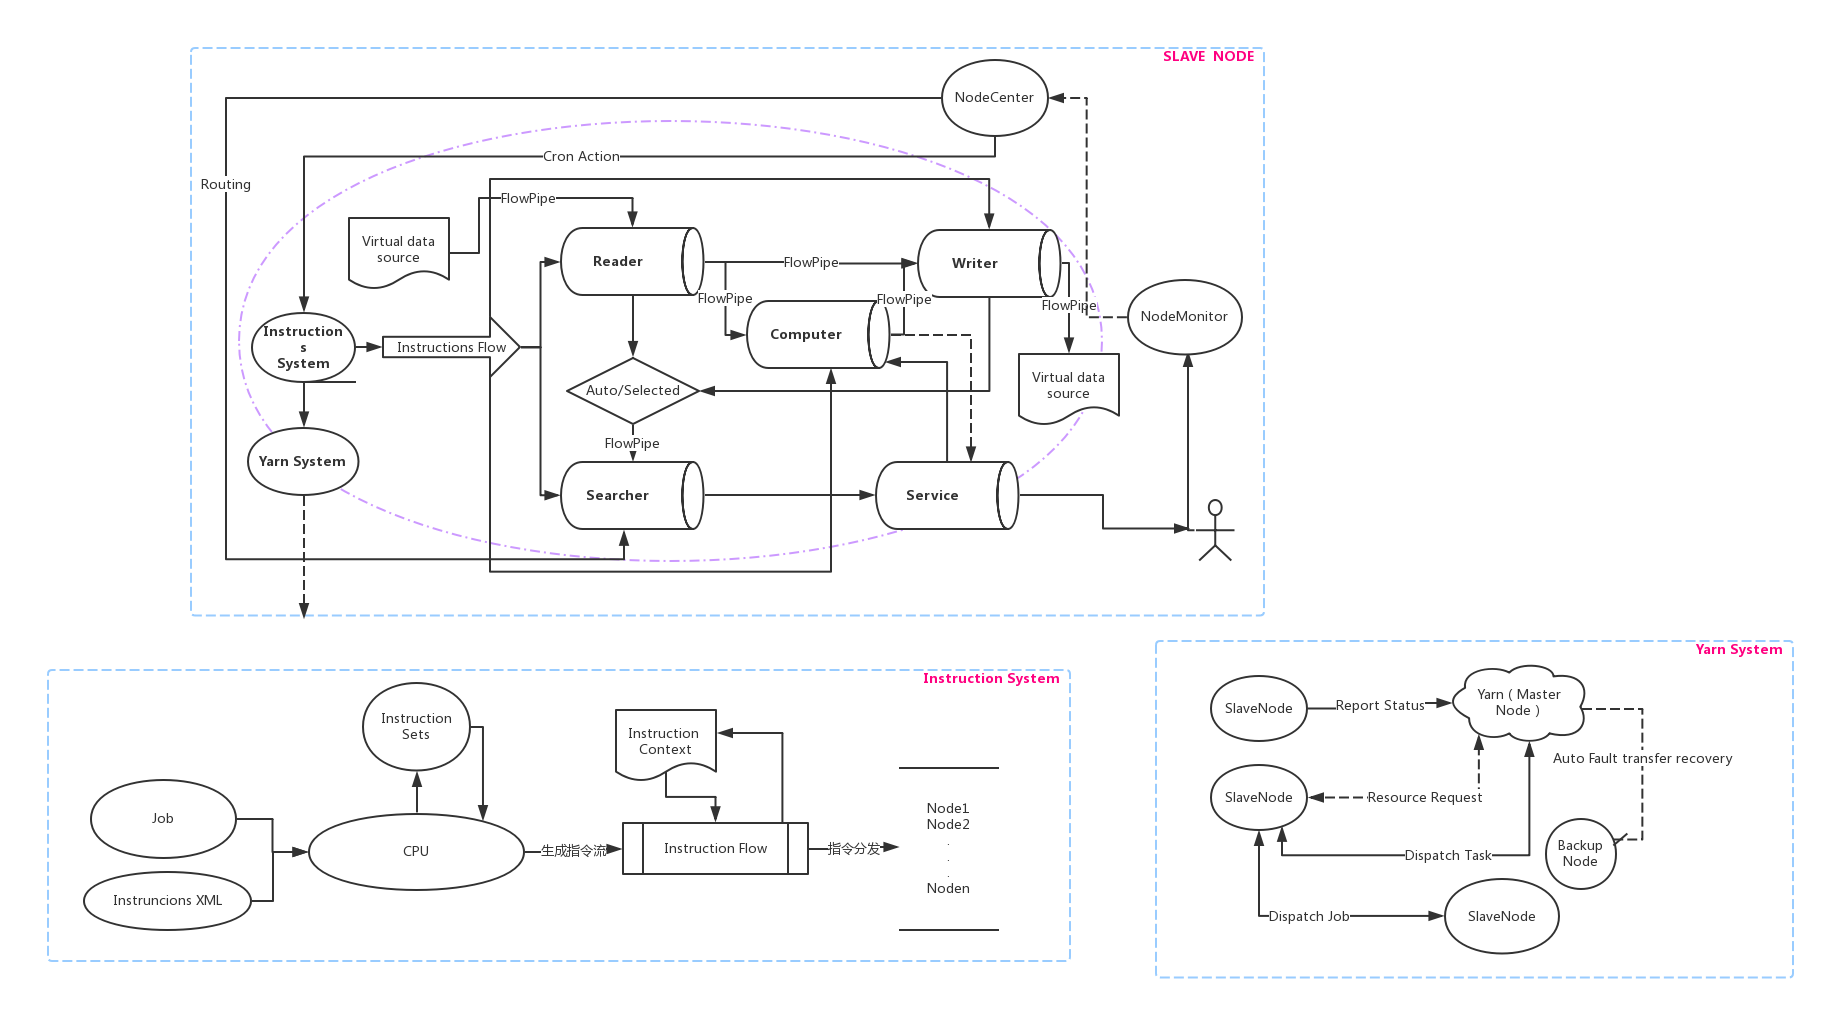
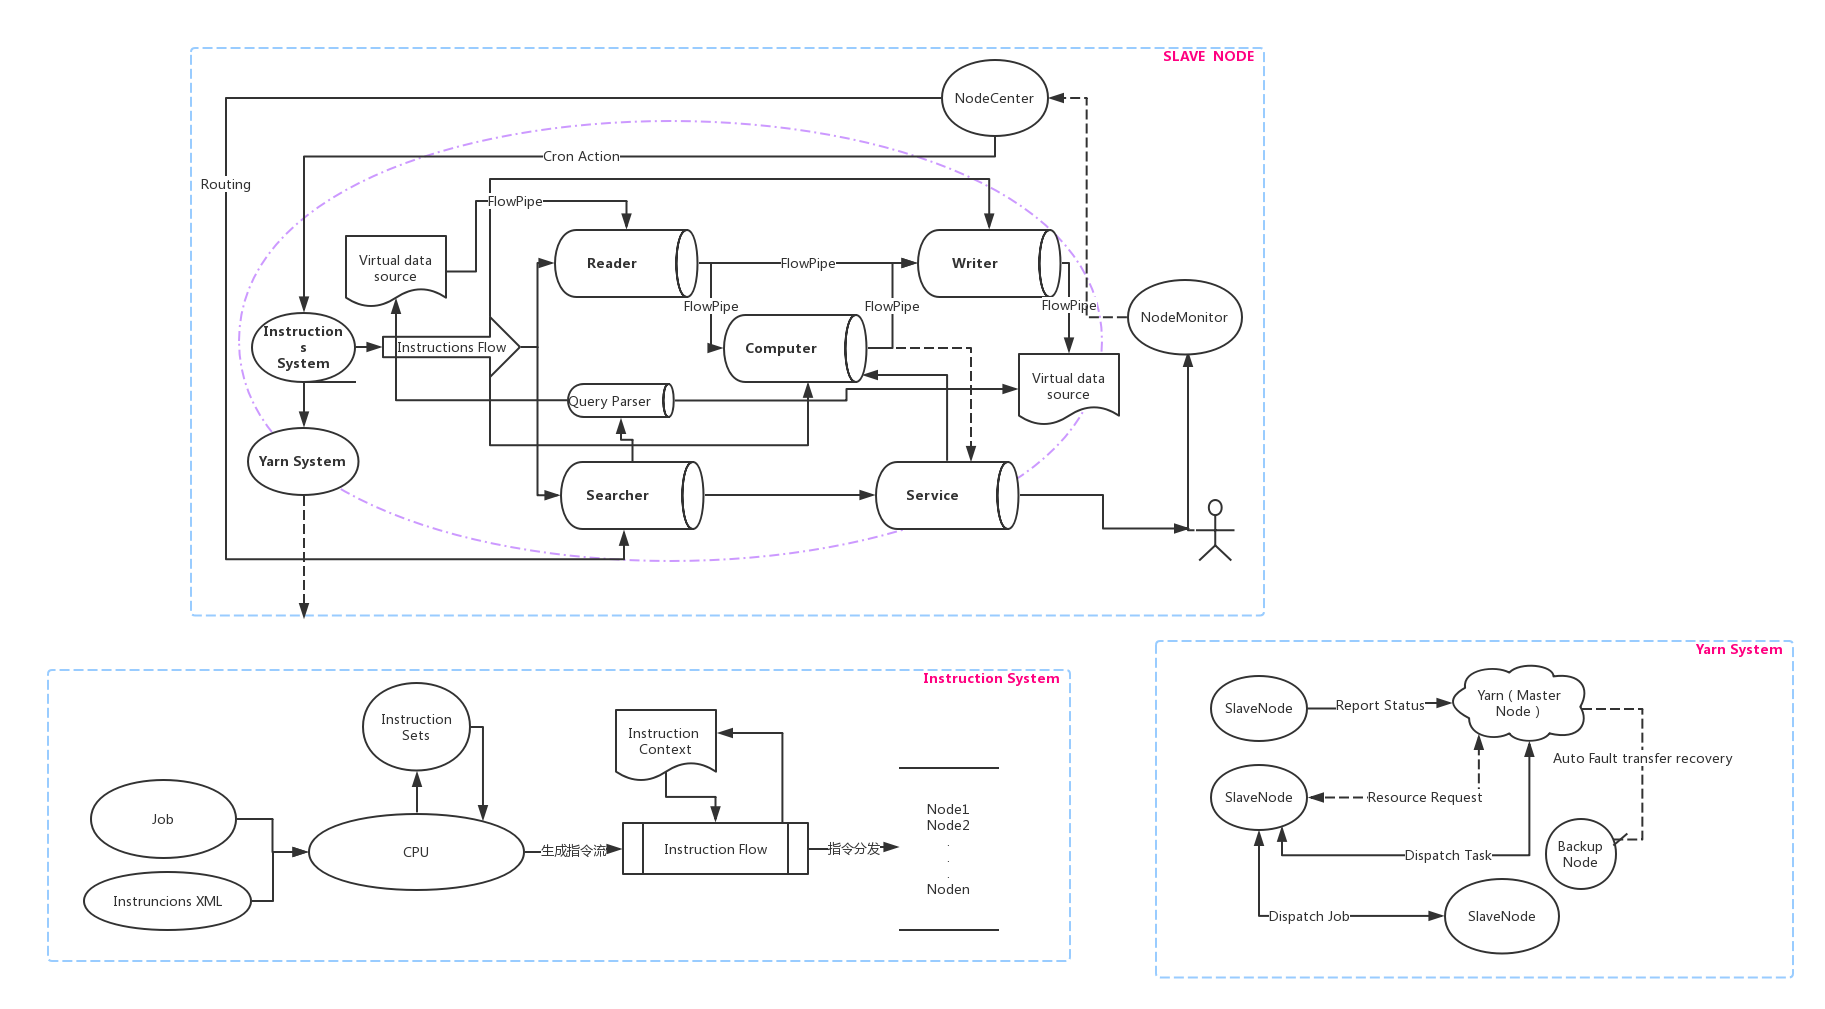
update

diff --git a/src/main/java/org/elasticflow/model/searcher/SearcherESModel.java b/src/main/java/org/elasticflow/model/searcher/SearcherESModel.java
@@ -21,7 +21,7 @@ import org.elasticsearch.search.sort.SortOrder;
 import org.elasticflow.config.GlobalParam;
 import org.elasticflow.config.InstanceConfig;
 import org.elasticflow.model.RiverRequest;
-import org.elasticflow.searcher.flow.ESQueryBuilder;
+import org.elasticflow.searcher.parser.ESQueryParser;
 import org.elasticflow.util.SearchParamUtil;
 
 /**
@@ -36,8 +36,7 @@ public class SearcherESModel implements SearcherModel<QueryBuilder,SortBuilder<?
 	private int start = 0;
 	private int count = 5;
 	Map<String,List<String[]>> facetSearchParams;
-	List<AggregationBuilder> facetsConfig = new ArrayList<AggregationBuilder>();
-	private Map<String, QueryBuilder> attrQueryMap = new HashMap<String, QueryBuilder>(); 
+	List<AggregationBuilder> facetsConfig = new ArrayList<AggregationBuilder>(); 
 	private boolean showQueryInfo = false;
 	private boolean needCorpfuncCnt = false;
 	private boolean cacheRequest = true;
@@ -54,25 +53,19 @@ public class SearcherESModel implements SearcherModel<QueryBuilder,SortBuilder<?
 		eq.setFacetSearchParams(SearchParamUtil.getFacetParams(request, instanceConfig));
 		if(request.getParam("facet_ext")!=null){
 			eq.setFacet_ext(request.getParams().get("facet_ext"));
-		} 
-		Map<String, QueryBuilder> attrQueryMap = new HashMap<String, QueryBuilder>();
-		BoolQueryBuilder query = ESQueryBuilder.buildBooleanQuery(request,
-				instanceConfig, attrQueryMap);
-		eq.setQuery(query);
-		eq.setAttrQueryMap(attrQueryMap);
+		}  
+		BoolQueryBuilder query = ESQueryParser.parseRequest(request,instanceConfig);
+		eq.setQuery(query); 
 		return eq;
 	}
  
 	
 	@Override
 	public QueryBuilder getQuery() {
-		if (query != null && attrQueryMap.size() > 0)
+		if (query != null)
 		{			
 			BoolQueryBuilder bQuery = QueryBuilders.boolQuery();
-			bQuery.must(query);
-			for(QueryBuilder q : attrQueryMap.values()){
-				bQuery.must(q);
-			}
+			bQuery.must(query); 
 			return bQuery;
 		}
 		return query;
@@ -139,15 +132,7 @@ public class SearcherESModel implements SearcherModel<QueryBuilder,SortBuilder<?
 		}
 		return facetsConfig;
 	} 
-	
-	@Override
-	public Map<String, QueryBuilder> getAttrQueryMap() {
-		return attrQueryMap;
-	}
-
-	public void setAttrQueryMap(Map<String, QueryBuilder> attrQueryMap) {
-		this.attrQueryMap = attrQueryMap;
-	} 
+ 
 	
 	@Override
 	public boolean isShowQueryInfo() {
@@ -190,25 +175,7 @@ public class SearcherESModel implements SearcherModel<QueryBuilder,SortBuilder<?
 	public void setCacheRequest(boolean cacheRequest) {
 		this.cacheRequest = cacheRequest;
 	}
-
-	@Override
-	public Map<String, QueryBuilder> getEveryAttrQueriesMap() {
-		Map<String, QueryBuilder> retMap = new HashMap<String, QueryBuilder>();
-		if (query != null && attrQueryMap.size() > 0){
-			for(Map.Entry<String, QueryBuilder> e : attrQueryMap.entrySet()){
-				BoolQueryBuilder bQuery = QueryBuilders.boolQuery();
-				bQuery.must(query);
-				for(String key : attrQueryMap.keySet()){
-					if (e.getKey().equals(key))
-						continue;
-					bQuery.must(attrQueryMap.get(key));
-				}
-				retMap.put(e.getKey(), bQuery);
-				
-			}
-		}
-		return retMap;
-	}
+ 
 
 	@Override
 	public String getFl() {

diff --git a/src/main/java/org/elasticflow/model/searcher/SearcherSolrModel.java b/src/main/java/org/elasticflow/model/searcher/SearcherSolrModel.java
@@ -1,15 +1,13 @@
 package org.elasticflow.model.searcher;
 
 import java.util.ArrayList;
-import java.util.HashMap;
 import java.util.List;
 import java.util.Map;
 
 import org.apache.solr.client.solrj.SolrQuery;
-
 import org.elasticflow.config.InstanceConfig;
 import org.elasticflow.model.RiverRequest;
-import org.elasticflow.searcher.flow.SolrQueryBuilder;
+import org.elasticflow.searcher.parser.SolrQueryParser;
 
 /**
  * 
@@ -28,14 +26,12 @@ public class SearcherSolrModel implements SearcherModel<SolrQuery, String, Strin
 	private String requesthandler="select";
 	
 	Map<String, List<String[]>> facetSearchParams;
-	List<String> facetsConfig = new ArrayList<String>();
-	private Map<String, SolrQuery> attrQueryMap = new HashMap<String, SolrQuery>(); 
+	List<String> facetsConfig = new ArrayList<String>(); 
 	private List<String> sortinfo;
 	
 	public static SearcherSolrModel getInstance(RiverRequest request, InstanceConfig instanceConfig) {
 		SearcherSolrModel sq = new SearcherSolrModel(); 
-		sq.setQuery(SolrQueryBuilder.queryBuilder(request, instanceConfig,
-				 new HashMap<String, String>()));
+		sq.setQuery(SolrQueryParser.parseRequest(request, instanceConfig));
 		return sq;
 	}
  
@@ -93,18 +89,7 @@ public class SearcherSolrModel implements SearcherModel<SolrQuery, String, Strin
 	public void setShowQueryInfo(boolean isshow) {
 		this.showQueryInfo = isshow;
 	}
-
-	@Override
-	public Map<String, SolrQuery> getAttrQueryMap() { 
-		return this.attrQueryMap;
-	}
-
-	@Override
-	public Map<String, SolrQuery> getEveryAttrQueriesMap() {
-		// TODO Auto-generated method stub
-		return null;
-	}
-
+ 
 	@Override
 	public List<String> getFacetsConfig() {
 		// TODO Auto-generated method stub

diff --git a/src/main/java/org/elasticflow/searcher/parser/ESQueryParser.java b/src/main/java/org/elasticflow/searcher/parser/ESQueryParser.java
@@ -1,4 +1,4 @@
-package org.elasticflow.searcher.flow;
+package org.elasticflow.searcher.parser;
 
 import java.lang.reflect.Method;
 import java.util.Iterator;
@@ -35,16 +35,15 @@ import org.elasticflow.util.Common;
  * @version 2.0
  * @date 2018-10-26 09:23
  */
-public class ESQueryBuilder {
+public class ESQueryParser implements QueryParser{
 
-	private final static Logger log = LoggerFactory.getLogger(ESQueryBuilder.class);
+	private final static Logger log = LoggerFactory.getLogger(ESQueryParser.class);
 
 	static public QueryBuilder EmptyQuery() {
 		return QueryBuilders.termQuery("EMPTY", "0x000");
 	}
 
-	static public BoolQueryBuilder buildBooleanQuery(RiverRequest request, InstanceConfig instanceConfig,
-		 Map<String, QueryBuilder> attrQueryMap) {
+	static public BoolQueryBuilder parseRequest(RiverRequest request, InstanceConfig instanceConfig) {
 		BoolQueryBuilder bquery = QueryBuilders.boolQuery();
 		try {
 			Map<String, String> paramMap = request.getParams();

diff --git a/src/main/java/org/elasticflow/searcher/parser/SolrQueryParser.java b/src/main/java/org/elasticflow/searcher/parser/SolrQueryParser.java
@@ -1,4 +1,4 @@
-package org.elasticflow.searcher.flow;
+package org.elasticflow.searcher.parser;
 
 import java.util.Arrays;
 import java.util.Iterator;
@@ -22,10 +22,9 @@ import org.elasticflow.util.Common;
  * @version 2.0
  * @date 2018-10-26 09:24
  */
-public class SolrQueryBuilder {
+public class SolrQueryParser implements QueryParser{
 
-	public static SolrQuery queryBuilder(RiverRequest request, InstanceConfig prs,
-			Map<String, String> attrQueryMap) {
+	public static SolrQuery parseRequest(RiverRequest request, InstanceConfig prs) {
 		SolrQuery sq = new SolrQuery();
 		StringBuilder qu = new StringBuilder();
 		Map<String, String> paramMap = request.getParams();

diff --git a/src/main/java/org/elasticflow/model/searcher/SearcherModel.java b/src/main/java/org/elasticflow/model/searcher/SearcherModel.java
@@ -42,11 +42,7 @@ public interface SearcherModel<T1, T2, T3> {
 	
 	public boolean isShowQueryInfo();
 	
-	public List<T2> getSortinfo();
-
-	public Map<String, T1> getAttrQueryMap();
-
-	public Map<String, T1> getEveryAttrQueriesMap();
+	public List<T2> getSortinfo();  
 
 	public List<T3> getFacetsConfig(); 
 

diff --git a/src/main/java/org/elasticflow/searcher/parser/QueryParser.java b/src/main/java/org/elasticflow/searcher/parser/QueryParser.java
@@ -1,0 +1,12 @@
+package org.elasticflow.searcher.parser;
+
+/**
+ * 
+ * @author chengwen
+ * @version 1.0
+ * @date 2018-01-23 09:19
+ * @modify 2019-01-23 09:19
+ */
+public interface QueryParser {
+	 
+}

diff --git a/src/main/java/org/elasticflow/util/MD5Util.java b/src/main/java/org/elasticflow/util/MD5Util.java
@@ -36,6 +36,6 @@ public class MD5Util {
 	}
 	
 	public static void main(String[] args) {
-		System.out.println(SaltMd5("reloadConfig"));
+		System.out.println(SaltMd5("b2b_refunds"));
 	}
 }
